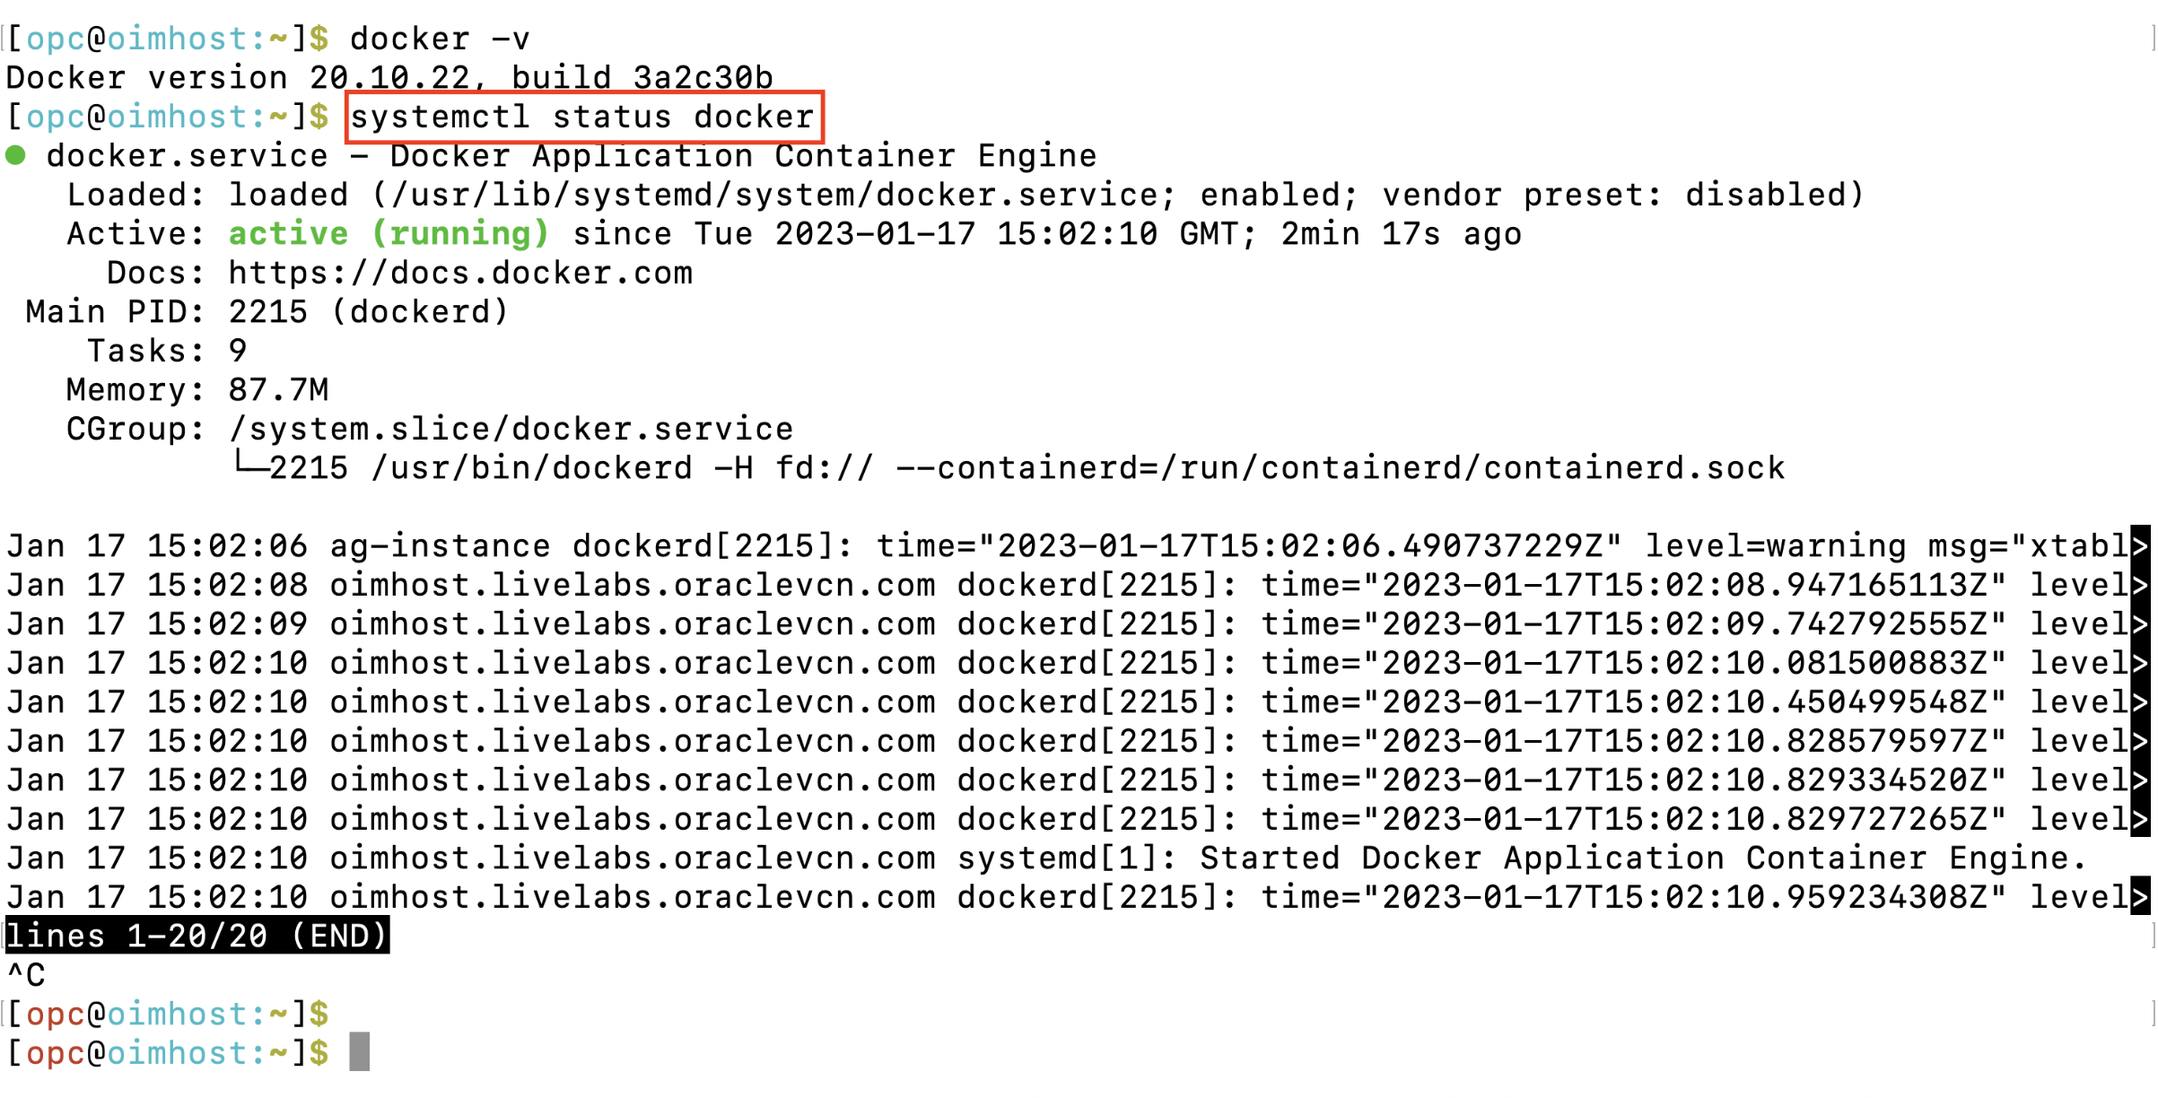
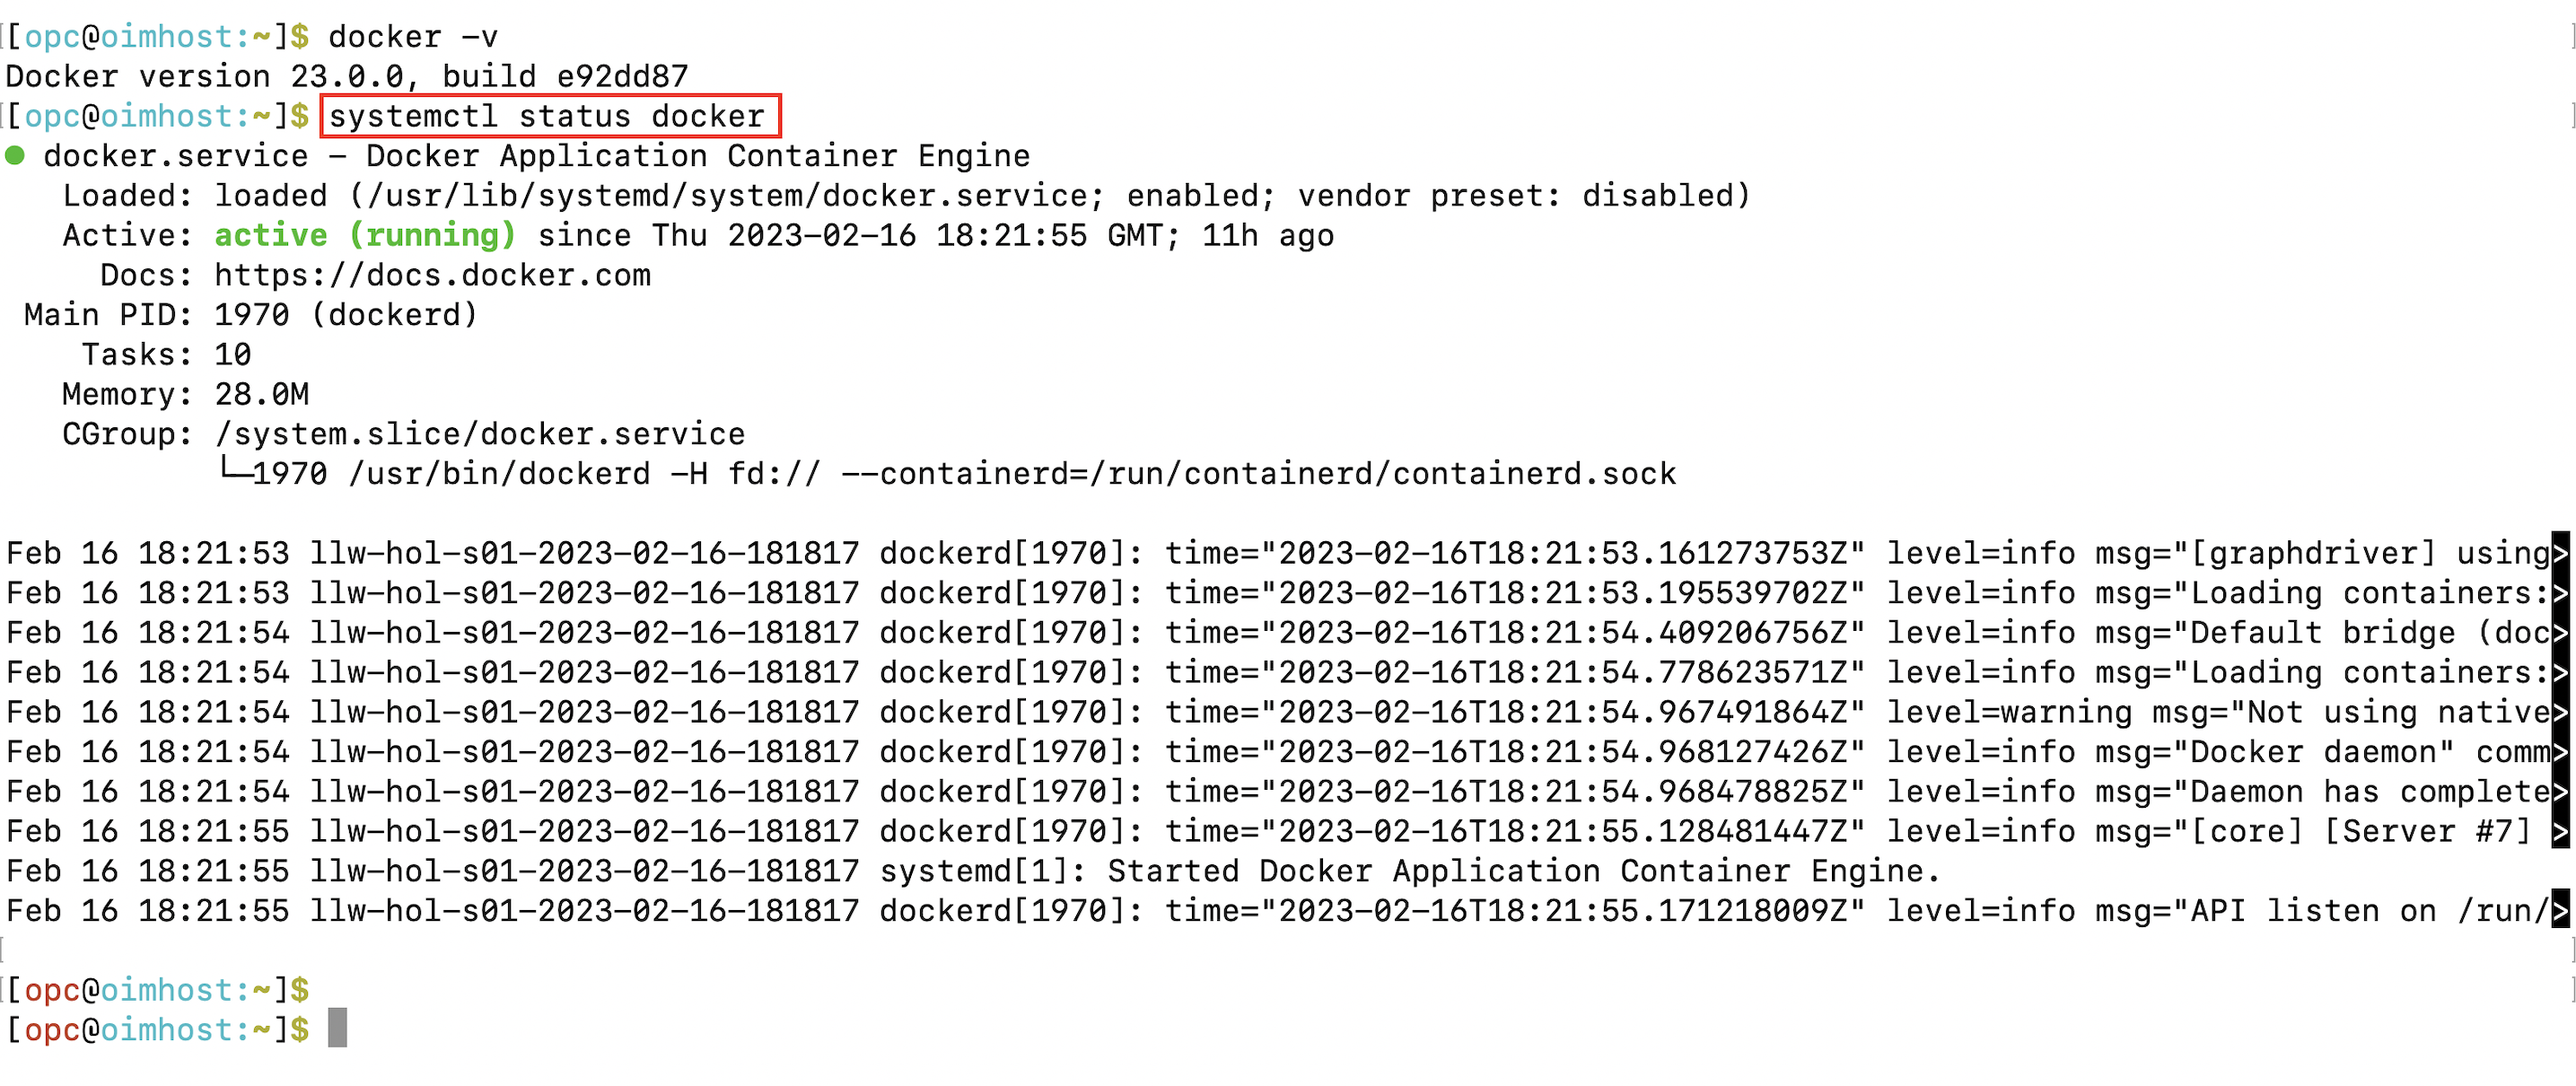
ID#11315  Oracle Access Governance Complete Experience (#64)
* Access Governance End to End Workshop

Access Governance End to End Workshop

* Updated Authors

* AG workshop update

* AG workshop update

* AG workshop update

* AG workshop update

* AG workshop update

* AG Workshop update

* AG Workshop update

* AG workshop update

* AG Workshop update

* AG Workshop update

* AG workshop update

* Updated Diagram

* Update manifest.json

* AG workshop update

* Update prepare-setup.md

* AG workshop update

* AG workshop update

* AG workshop update

* AG workshop update

---------

diff --git a/accessgovernancee2e/environment-initialize/environment-initialize.md b/accessgovernancee2e/environment-initialize/environment-initialize.md
@@ -21,24 +21,35 @@ This lab assumes you have:
 
 ## Task 1: Validate Docker is up and running
 
-1. Open a terminal session. Check the version of the docker.
+1. Open a terminal session. 
+
+   ![Open terminal](images/open-terminal.png)
+
+   The terminal session has started. 
+
+   ![Terminal window](images/terminal-window.png)
+
+2. Check the version of the docker.
 
     ```
     <copy>docker -v</copy>
     ```
-    ```
-    Expected output: Docker version 20.10.22, build 3a2c30b
-    ```
     ![Check the version of docker](images/docker-version.png)
 
-2. Validate the status to verify if docker service is up/running
+    ```
+    Expected output: Docker version 23.0.0, build e92dd87
+    ```
+    
+
+3. Validate the status to verify if docker service is up/running
 
     ```
     <copy>systemctl status docker</copy>
     ```
-    Enter **Ctrl+C** to return to the command prompt
 
     ![Validate the status of docker](images/docker-info.png) 
+
+     Enter **Ctrl+C** to return to the command prompt
 
 ## Task 2: Start the Oracle Identity Governance (OIG) Services
 
@@ -49,22 +60,30 @@ This lab assumes you have:
     ```
 
     ![Move to script files location](images/script-file.png)
+
+2. List the files inside the directory.
+
+    ```
+    <copy>ls</copy>
+    ```
+
     ![List of files in directory](images/list-files.png)
 
 
-2. Start DB and all servers manually,using below scripts.
+3. Start DB and all servers manually,using below scripts.
 
     ```
     <copy>./start_db.sh</copy>
     ```
     Wait till DB gets started. Then proceed to start all servers.
-     ```
-    
-    <copy>./start_all_servers.sh</copy>
-    ```
+
     ![DB server started](images/start-db.png)
 
     ![DB server started](images/db-started.png)
+
+    ```   
+    <copy>./start_all_servers.sh</copy>
+    ```
 
     ![All servers are started](images/start-all-servers.png)
 

diff --git a/accessgovernancee2e/prepare-setup/prepare-setup.md b/accessgovernancee2e/prepare-setup/prepare-setup.md
@@ -18,7 +18,8 @@ This lab assumes you have:
 
     *Note 1:* If providing a single Stack download for the workshop, use this simple expression.
 
-    - [sample-mkplc-freetier.zip](<--objectstorageurl-->)
+    - [oracle_access_governance_stack.zip](https://objectstorage.us-ashburn-1.oraclecloud.com/p/AUKfPIGuTde04z4OnuaZN2EP0LxNl4hJWI2jZiTw23aWzSoa2_Byvs8OGPw20-dt/n/c4u04/b/livelabsfiles/o/security-library/oracle_access_governance_stack.zip)
+
 
     *Note 2:* If providing multiple Stacks download for the same workshop, use a conditional expression similar to the below. Keep in mind that the condition or *type* must be paired with a valid entry in the *manifest.json* file. Refer to *freetier-advanced* and *freetier-basics*
 

diff --git a/accessgovernancee2e/event-based-review/event-based-review.md b/accessgovernancee2e/event-based-review/event-based-review.md
@@ -57,7 +57,7 @@ In this lab, you will:
 
   **URL:**
     ```
-    <copy>https://<--privateipofyourcomputeinstace-->:14000/identity</copy>
+    <copy>http://oimhost.us.oracle.com:14000/identity</copy>
     ```
     **Username:**
     ```
@@ -108,7 +108,7 @@ In this lab, you will:
 
     **URL:**
     ```
-    <copy>https://<--privateipofyourcomputeinstace-->:14000/identity</copy>
+    <copy>http://oimhost.us.oracle.com:14000/identity</copy>
     ```
     **Username:**
     ```

diff --git a/accessgovernancee2e/perform-access-review/perform-access-review.md b/accessgovernancee2e/perform-access-review/perform-access-review.md
@@ -112,7 +112,7 @@ In this lab, you will:
 
    **URL:**
     ```
-      <copy>http://<--privateipofyourcomputeinstance-->:14000/identity</copy>
+      <copy>http://oimhost.us.oracle.com:14000/identity</copy>
      ```
    **Username:**
      ```
